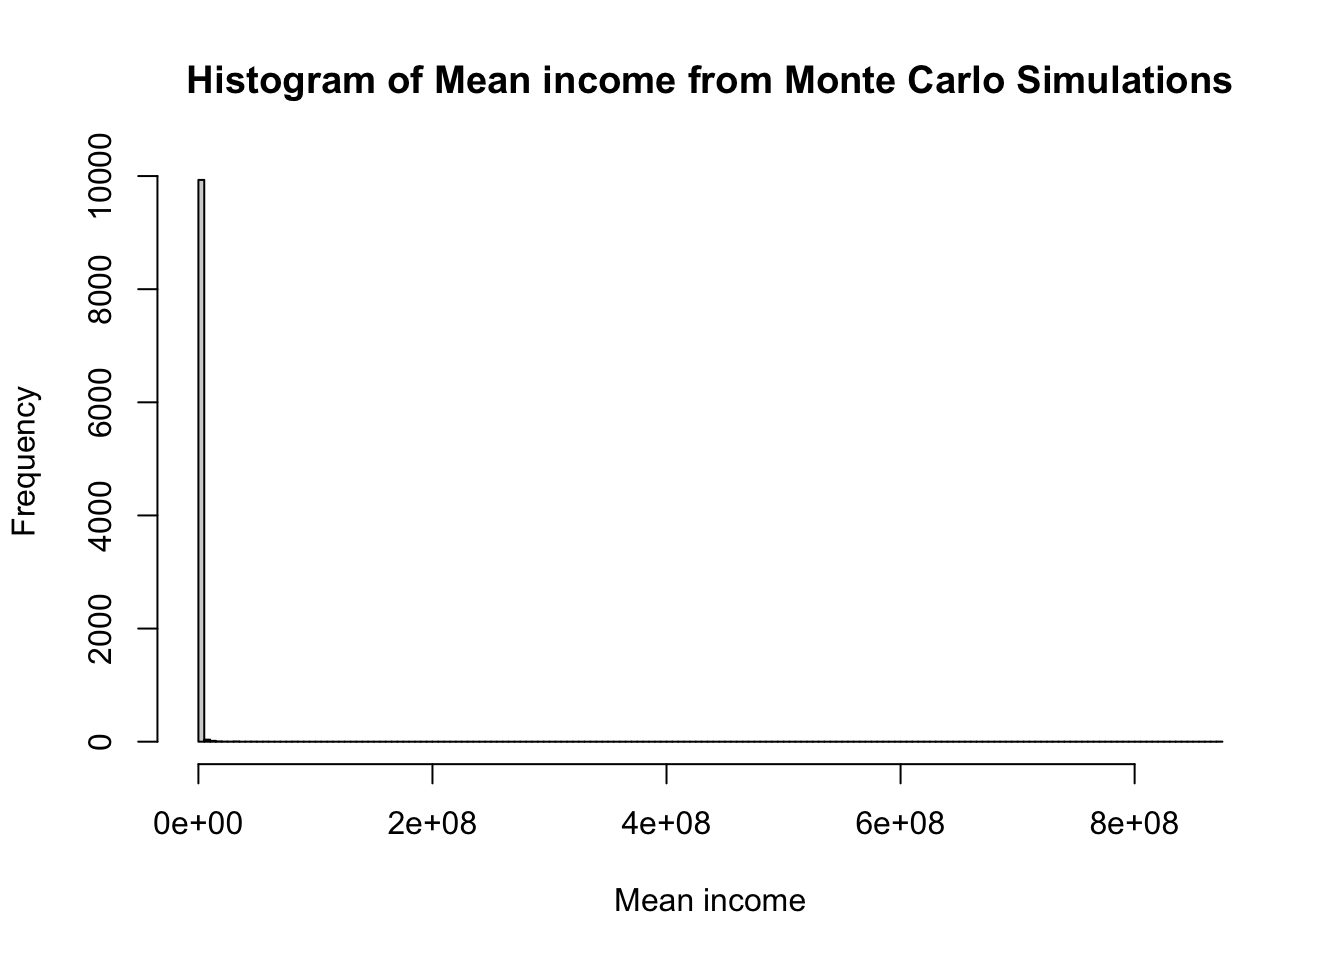
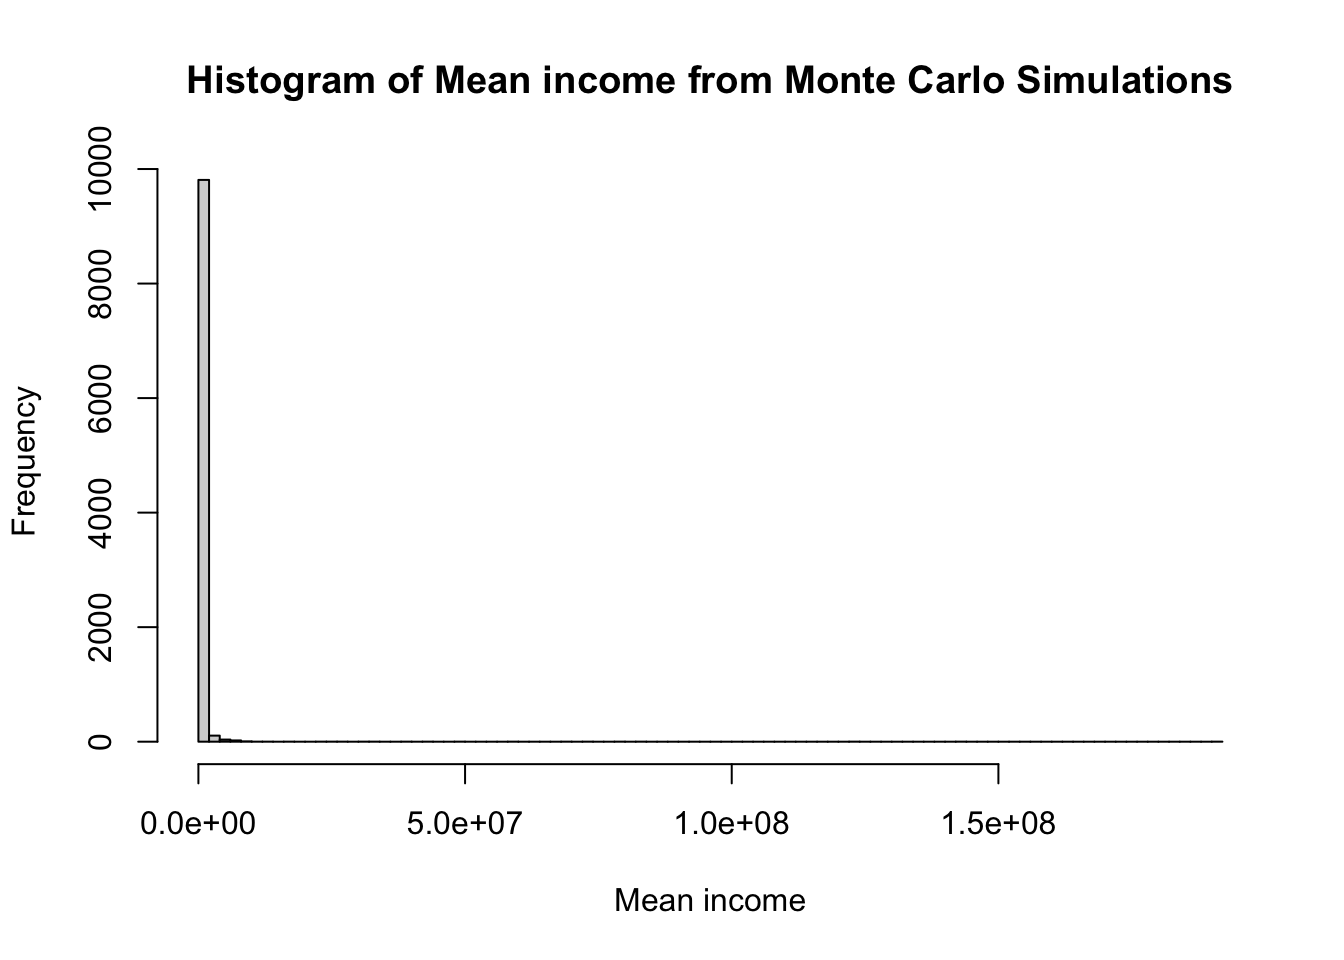
jab cramnik

diff --git a/docs/posts/gukesh.html b/docs/posts/gukesh.html
@@ -110,10 +110,16 @@ cookieconsent.run({
 <link rel="stylesheet" href="../styles.css">
 <meta property="og:title" content="Stoic Gukesh on top of the world – knotes">
 <meta property="og:description" content="You create your own luck">
+<meta property="og:image" content="https://www.knotes.co.in/posts/images/kramnik.png">
 <meta property="og:site_name" content="knotes">
+<meta property="og:image:height" content="276">
+<meta property="og:image:width" content="1188">
 <meta name="twitter:title" content="Stoic Gukesh on top of the world – knotes">
 <meta name="twitter:description" content="You create your own luck">
-<meta name="twitter:card" content="summary">
+<meta name="twitter:image" content="https://www.knotes.co.in/posts/images/kramnik.png">
+<meta name="twitter:image-height" content="276">
+<meta name="twitter:image-width" content="1188">
+<meta name="twitter:card" content="summary_large_image">
 </head>
 
 <body class="nav-sidebar floating nav-fixed">
@@ -1998,6 +2004,7 @@ cookieconsent.run({
   <li><a href="#who-is-gukesh" id="toc-who-is-gukesh" class="nav-link active" data-scroll-target="#who-is-gukesh">Who is Gukesh?</a></li>
   <li><a href="#who-is-ding" id="toc-who-is-ding" class="nav-link" data-scroll-target="#who-is-ding">Who is Ding?</a></li>
   <li><a href="#final-game" id="toc-final-game" class="nav-link" data-scroll-target="#final-game">Final Game</a></li>
+  <li><a href="#where-do-the-current-world-champion-stand" id="toc-where-do-the-current-world-champion-stand" class="nav-link" data-scroll-target="#where-do-the-current-world-champion-stand">Where do the current world champion stand?</a></li>
   </ul>
 </nav>
     </div>
@@ -2046,17 +2053,81 @@ cookieconsent.run({
 </section>
 <section id="final-game" class="level2">
 <h2 class="anchored" data-anchor-id="final-game">Final Game</h2>
-<iframe width="740" height="471" src="https://lichess.org/study/embed/LF4x850G/HCFmWifD#0" frameborder="0">
+<div style="position: relative; width: 100%; height: 0; padding-bottom: 56.25%;">
+<iframe src="https://lichess.org/study/embed/LF4x850G/HCFmWifD#0" style="position: absolute; top: 0; left: 0; width: 100%; height: 100%; border: none;">
 </iframe>
+</div>
 <p>Now you can see Gukesh crying out of joy, making every Indian proud 😂</p>
 <div class="quarto-video ratio ratio-16x9"><iframe data-external="1" src="https://www.youtube.com/embed/sbPeUgTxRwE?si=gKDQZTq50yOmuh0n" title="" frameborder="0" allow="accelerometer; autoplay; clipboard-write; encrypted-media; gyroscope; picture-in-picture" allowfullscreen=""></iframe></div>
-<p>I was particularly impressed by Gukesh’s attitude. He almost always appeared calm and composed under high-pressure situations, a demeanor that an alien like Magnus Carlsen might not enjoy. He always wanted to play, trying to create chances even with inferior positions. While pundits were giving him a .27% chance of winning, he played on. In that way, he created his own luck at one point and seized it with all hands. After the shocking win, although he almost completely broke down, he quickly regained his composure, stoically rearranged the chess pieces, thanked the chess set, and put the chair back in its position. This speaks volumes about this young talent. As Hikaru Nakamura said on his stream, Gukesh has just begun—there’s only upside to see in his future.</p>
+<p>I was particularly impressed by Gukesh’s attitude. He almost always appeared calm and composed under high-pressure situations, a demeanor that an alien like Magnus Carlsen might not enjoy. He always wanted to play, trying to create chances even with inferior positions. While pundits were giving him a 0.27% chance of winning, he played on. In that way, he created his own luck at one point and seized it with all hands. After the shocking win, although he almost completely broke down, he quickly regained his composure, stoically rearranged the chess pieces, thanked the chess set, and put the chair back in its position. This speaks volumes about this young talent. As Hikaru Nakamura said on his stream, Gukesh has just begun—there’s only upside to see in his future.</p>
 <p>He didn’t forget to take a light jab at Magnus, the GOAT, during the press conference:</p>
 <blockquote class="blockquote">
 <div style="color: red">
 <p>The title he took away from Chennai is taken back. Try to get it back!!! Who knows?</p>
 </div>
 </blockquote>
+</section>
+<section id="where-do-the-current-world-champion-stand" class="level2">
+<h2 class="anchored" data-anchor-id="where-do-the-current-world-champion-stand">Where do the current world champion stand?</h2>
+<table class="caption-top table">
+<colgroup>
+<col style="width: 39%">
+<col style="width: 46%">
+<col style="width: 14%">
+</colgroup>
+<thead>
+<tr class="header">
+<th><strong>Player/World Champion</strong></th>
+<th><strong>Peak FIDE Rating at Age 18</strong></th>
+<th><strong>Year</strong></th>
+</tr>
+</thead>
+<tbody>
+<tr class="odd">
+<td><strong>Gukesh Dommaraju</strong></td>
+<td>2794</td>
+<td>2024</td>
+</tr>
+<tr class="even">
+<td><strong>Magnus Carlsen</strong></td>
+<td>2786</td>
+<td>2009</td>
+</tr>
+<tr class="odd">
+<td><strong>Garry Kasparov</strong></td>
+<td>2786</td>
+<td>1981</td>
+</tr>
+<tr class="even">
+<td><strong>Viswanathan Anand</strong></td>
+<td>2667</td>
+<td>1987</td>
+</tr>
+<tr class="odd">
+<td><strong>Vladimir Kramnik</strong></td>
+<td>2756</td>
+<td>1993</td>
+</tr>
+<tr class="even">
+<td><strong>Anatoly Karpov</strong></td>
+<td>2525</td>
+<td>1969</td>
+</tr>
+<tr class="odd">
+<td><strong>Bobby Fischer</strong></td>
+<td>~2729</td>
+<td>1961</td>
+</tr>
+</tbody>
+</table>
+<p>We can clearly see that he is ahead of his peers and is absurd to believe that someone like him has already reached his peak.</p>
+<p><strong>PS</strong> <strong>Historical Limitations</strong>: ~ Ratings for earlier champions are estimated due to the lack of formal systems before FIDE introduced ratings in the 1970s.</p>
+<p>More than 2000 years back, Socrates said this:</p>
+<blockquote class="blockquote">
+<p>“<em>The children now love luxury; they have bad manners, contempt for authority; they show disrespect for elders and love chatter in place of exercise.” Socrates (circa 470/469 – 399 BCE)</em></p>
+</blockquote>
+<p>I can’t help but remember this and laugh at the similar rosy recapitulations of V Kramnik.</p>
+<p><img src="images/kramnik.png" class="img-fluid"></p>
 
 
 </section>

diff --git a/docs/posts/montecarlo.html b/docs/posts/montecarlo.html
@@ -2238,7 +2238,7 @@ Income distribution is not normal
 </details>
 <div class="cell-output cell-output-stdout">
 <pre><code>     Min.   1st Qu.    Median      Mean   3rd Qu.      Max. 
-   214409    296148    343029    618917    436764 873032309 </code></pre>
+   211368    297346    344025    581540    439145 190222633 </code></pre>
 </div>
 <details open="" class="code-fold">
 <summary>Code</summary>
@@ -2246,7 +2246,7 @@ Income distribution is not normal
 </details>
 <div class="cell-output cell-output-stdout">
 <pre><code>   Min. 1st Qu.  Median    Mean 3rd Qu.    Max. 
-  62201   64073   64517   64515   64949   66767 </code></pre>
+  62262   64077   64496   64511   64933   67356 </code></pre>
 </div>
 <details open="" class="code-fold">
 <summary>Code</summary>
@@ -2254,7 +2254,7 @@ Income distribution is not normal
 </details>
 <div class="cell-output cell-output-stdout">
 <pre><code>     Min.   1st Qu.    Median      Mean   3rd Qu.      Max. 
-1.016e+06 3.359e+06 5.662e+06 3.246e+07 1.182e+07 8.728e+10 </code></pre>
+9.662e+05 3.365e+06 5.713e+06 2.881e+07 1.199e+07 1.899e+10 </code></pre>
 </div>
 </div>
 </section>

diff --git a/docs/posts.html b/docs/posts.html
@@ -2193,7 +2193,7 @@ Categories
 <span class="listing-categories">medicine</span>
 </td>
 </tr>
-<tr data-index="2" data-listing-date-sort="1733941800000" data-listing-file-modified-sort="1734029523140" data-listing-date-modified-sort="NaN" data-listing-reading-time-sort="3" data-listing-word-count-sort="512" data-listing-title-sort="Stoic Gukesh on top of the world" data-listing-filename-sort="gukesh.qmd">
+<tr data-index="2" data-listing-date-sort="1733941800000" data-listing-file-modified-sort="1734055132243" data-listing-date-modified-sort="NaN" data-listing-reading-time-sort="5" data-listing-word-count-sort="956" data-listing-title-sort="Stoic Gukesh on top of the world" data-listing-filename-sort="gukesh.qmd">
 <td>
 <span class="listing-date">Dec 12, 2024</span>
 </td>
@@ -2201,7 +2201,7 @@ Categories
 <a href="./posts/gukesh.html" class="title listing-title">Stoic Gukesh on top of the world</a>
 </td>
 <td>
-<span class="listing-reading-time">3 min</span>
+<span class="listing-reading-time">5 min</span>
 </td>
 <td>
 <span class="listing-categories">&nbsp;</span>

diff --git a/docs/Biomedical/Research Methodology/wrangling.html b/docs/Biomedical/Research Methodology/wrangling.html
@@ -3533,8 +3533,8 @@ Record
 <pre><code>     age   sex  class
    &lt;int&gt; &lt;int&gt; &lt;fctr&gt;
 1:     1     0  child
-2:     2     0  child
-3:     3     0  child
+2:     2     1  child
+3:     3     1  child
 4:     4     1  child
 5:     5     0  child
 6:     6     1  child</code></pre>
@@ -3556,8 +3556,8 @@ Record
      age      0      1
    &lt;int&gt; &lt;fctr&gt; &lt;fctr&gt;
 1:     1  child   &lt;NA&gt;
-2:     2  child   &lt;NA&gt;
-3:     3  child   &lt;NA&gt;
+2:     2   &lt;NA&gt;  child
+3:     3   &lt;NA&gt;  child
 4:     4   &lt;NA&gt;  child
 5:     5  child   &lt;NA&gt;
 6:     6   &lt;NA&gt;  child</code></pre>
